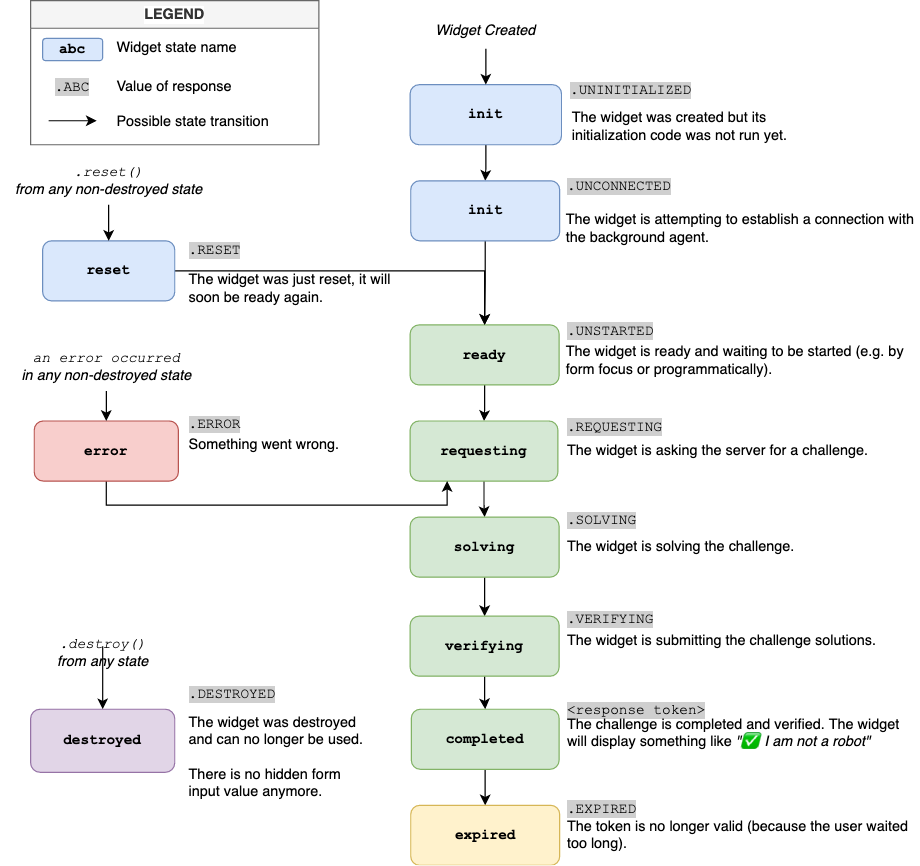
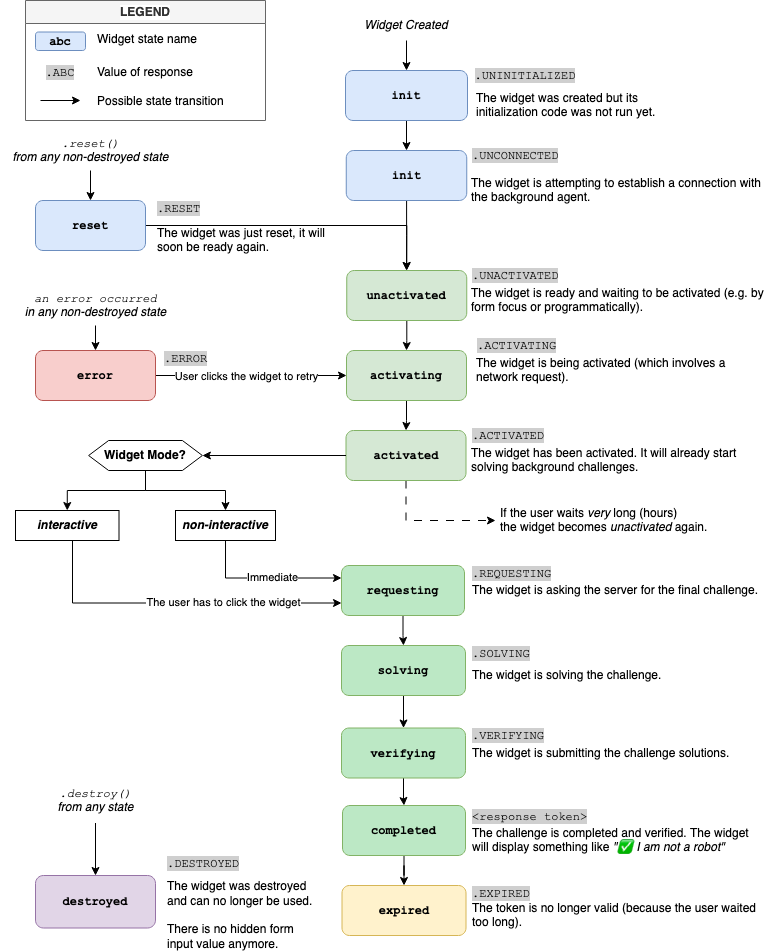
Update docs

Changed region(s): [[0.0311, 0.0, 0.9961, 1.0], [0.0311, 0.7171, 0.4047, 0.9977], [0.3424, 0.0, 0.3735, 0.1247]]

diff --git a/docs/sdk/reference/friendly-captcha-sdk.md b/docs/sdk/reference/friendly-captcha-sdk.md
@@ -30,6 +30,7 @@ A library for integrating Friendly Captcha into your website. This SDK allows yo
 |  [FRCWidgetStateChangeEventData](./friendly-captcha-sdk.frcwidgetstatechangeeventdata.md) | Payload of the <code>&quot;frc:widget.statechange&quot;</code> event. |
 |  [FriendlyCaptchaSDKOptions](./friendly-captcha-sdk.friendlycaptchasdkoptions.md) | Options when creating a new SDK instance. |
 |  [WidgetErrorData](./friendly-captcha-sdk.widgeterrordata.md) |  |
+|  [WidgetResetOptions](./friendly-captcha-sdk.widgetresetoptions.md) | The options object you can pass to the <code>widget.reset()</code> method. |
 
 ## Variables
 
@@ -53,6 +54,7 @@ A library for integrating Friendly Captcha into your website. This SDK allows yo
 |  [FRCWidgetWidgetExpireEvent](./friendly-captcha-sdk.frcwidgetwidgetexpireevent.md) | Event that gets dispatched when the widget expires. This happens when the user takes too long to submit the captcha after it is solved. |
 |  [FRCWidgetWidgetResetEvent](./friendly-captcha-sdk.frcwidgetwidgetresetevent.md) | Event that gets dispatched when something goes wrong in the widget. |
 |  [SentinelResponse](./friendly-captcha-sdk.sentinelresponse.md) | Response values used in the hidden input field when no valid solution is present, these tell you something about the state of the widget. |
-|  [StartMode](./friendly-captcha-sdk.startmode.md) | <p>The start mode of the widget.</p><p>\* <code>&quot;auto&quot;</code>: the widget gets activated as soon as it is created. \* <code>&quot;focus&quot;</code>: the widget gets activated as soon as the form above it is focused. \* <code>&quot;none&quot;</code>: The widget does not start automatically at all, the user needs to press the widget.</p> |
+|  [StartMode](./friendly-captcha-sdk.startmode.md) | <p>The start mode of the widget.</p><p>\* <code>&quot;auto&quot;</code>: the widget gets activated as soon as it is created. \* <code>&quot;focus&quot;</code>: the widget gets activated as soon as the form above it is focused. \* <code>&quot;none&quot;</code>: The widget does not get activated automatically at all, the user needs to press the widget (or <code>.start()</code> gets called using the Javascript API).</p> |
 |  [WidgetErrorCode](./friendly-captcha-sdk.widgeterrorcode.md) | <p>Error codes that can be returned by the widget.</p><p>\* <code>&quot;network_error&quot;</code>: The user's browser could not connect to the Friendly Captcha API. \* <code>&quot;sitekey_invalid&quot;</code>: The sitekey is invalid. \* <code>&quot;sitekey_missing&quot;</code>: The sitekey is missing. \* <code>&quot;other&quot;</code>: Some other error occurred.</p><p>In all cases it's the best practice to enable the "submit" button when the widget errors, so that the user can still perform the action despite not having solved the captcha.</p> |
+|  [WidgetResetTrigger](./friendly-captcha-sdk.widgetresettrigger.md) | What caused the widget to reset. \* <code>root</code>: Code on the root page (= your website code or plugin) caused the reset. \* <code>widget</code>: The reset came from the widget. The user likely clicked the reset button within the widget. \* <code>agent</code>: The reset came from the agent - this currently does not happen but may in the future. |
 |  [WidgetState](./friendly-captcha-sdk.widgetstate.md) | The state the widget is in. See the \[widget lifecycle\](../lifecycle) docs for more information. |

diff --git a/docs/sdk/reference/friendly-captcha-sdk.createwidgetoptions.md b/docs/sdk/reference/friendly-captcha-sdk.createwidgetoptions.md
@@ -22,10 +22,10 @@ export interface CreateWidgetOptions
 
 |  Property | Modifiers | Type | Description |
 |  --- | --- | --- | --- |
+|  [apiEndpoint?](./friendly-captcha-sdk.createwidgetoptions.apiendpoint.md) |  | string | _(Optional)_ A custom endpoint from which the agent and widgets are loaded. |
 |  [element](./friendly-captcha-sdk.createwidgetoptions.element.md) |  | HTMLElement | The HTML element to mount to, usually this is an element with class <code>.frc-captcha</code>. |
-|  [endpoint?](./friendly-captcha-sdk.createwidgetoptions.endpoint.md) |  | string | _(Optional)_ A custom endpoint from which the agent and widgets are loaded. |
 |  [formFieldName?](./friendly-captcha-sdk.createwidgetoptions.formfieldname.md) |  | string &#124; null | _(Optional)_ The name of the field in the form that is set, defaults to <code>frc-captcha-response</code>. |
-|  [language?](./friendly-captcha-sdk.createwidgetoptions.language.md) |  | string | _(Optional)_ Language code such as "en" for English or "de" for German. Defaults to automatic language detection. |
+|  [language?](./friendly-captcha-sdk.createwidgetoptions.language.md) |  | string | <p>_(Optional)_ Language code such as "en" for English or "de" for German. Defaults to automatic language detection.</p><p>Usually you should not set this yourself and instead let the widget detect the language automatically.</p> |
 |  [sitekey?](./friendly-captcha-sdk.createwidgetoptions.sitekey.md) |  | string | _(Optional)_ Sitekey of your application, starts with <code>FC</code>. |
 |  [startMode?](./friendly-captcha-sdk.createwidgetoptions.startmode.md) |  | [StartMode](./friendly-captcha-sdk.startmode.md) | <p>_(Optional)_ The start mode determines the behavior around automatic activation of the widget. Activation here means the challenge gets requested and gets solved. Defaults to <code>&quot;focus&quot;</code>.</p><p>\*<code>&quot;auto&quot;</code>: the widget gets activated as soon as it is created. \* <code>&quot;focus&quot;</code>: the widget gets activated as soon as the form above it is focused. \* <code>&quot;none&quot;</code>: The widget does not start automatically at all, the user needs to press the widget.</p> |
 |  [theme?](./friendly-captcha-sdk.createwidgetoptions.theme.md) |  | "light" &#124; "dark" &#124; "auto" | <p>_(Optional)_ The theme for the widget.</p><p>\* <code>&quot;light&quot;</code> (default): a light theme with a white background. \* <code>&quot;dark&quot;</code>: a dark theme with a dark background. \* <code>&quot;auto&quot;</code>: the theme is automatically chosen based on the user's system preferences.</p> |

diff --git a/docs/sdk/reference/friendly-captcha-sdk.frcwidgetreseteventdata.md b/docs/sdk/reference/friendly-captcha-sdk.frcwidgetreseteventdata.md
@@ -26,4 +26,4 @@ export interface FRCWidgetResetEventData
 |  [name](./friendly-captcha-sdk.frcwidgetreseteventdata.name.md) |  | typeof [FRCWidgetResetEventName](./friendly-captcha-sdk.frcwidgetreseteventname.md) | <code>&quot;frc:widget.reset&quot;</code> |
 |  [response](./friendly-captcha-sdk.frcwidgetreseteventdata.response.md) |  | string | The current <code>frc-captcha-response</code> value. |
 |  [state](./friendly-captcha-sdk.frcwidgetreseteventdata.state.md) |  | "reset" |  |
-|  [trigger](./friendly-captcha-sdk.frcwidgetreseteventdata.trigger.md) |  | WidgetResetTrigger | What caused the reset. Possible values: \* <code>&quot;widget&quot;</code>: reset initiated by the widget (<code>&quot;widget&quot;</code>), which generally means the user clicked the reset button within the widget. \* <code>&quot;root&quot;</code>: triggered by your own code on the current page (by calling <code>widget.reset()</code>). \* <code>&quot;agent&quot;</code>: triggered by the background agent (currently never happens). |
+|  [trigger](./friendly-captcha-sdk.frcwidgetreseteventdata.trigger.md) |  | [WidgetResetTrigger](./friendly-captcha-sdk.widgetresettrigger.md) | What caused the reset. Possible values: \* <code>&quot;widget&quot;</code>: reset initiated by the widget (<code>&quot;widget&quot;</code>), which generally means the user clicked the reset button within the widget. \* <code>&quot;root&quot;</code>: triggered by your own code on the current page (by calling <code>widget.reset()</code>). \* <code>&quot;agent&quot;</code>: triggered by the background agent (currently never happens). |

diff --git a/docs/api/endpoints/siteverify.md b/docs/api/endpoints/siteverify.md
@@ -2,13 +2,13 @@
 sidebar_position: 0
 ---
 
-# `/api/v2/siteverify`
+# `/api/v2/captcha/siteverify`
 
 The siteverify endpoint is used to verify captcha responses. A captcha response is the value that is embedded in your form by the captcha widget when the challenge has been completed.
 
 ## Request
 
-Make a **POST** request to `https://global.frcapi.com/api/v2/siteverify` with the following parameters:
+Make a **POST** request to `https://global.frcapi.com/api/v2/captcha/siteverify` with the following parameters:
 
 | POST Parameter | Type | Description |
 |----------------|------|-----------------------------------------------------|
@@ -33,8 +33,8 @@ The response body is a JSON object which has a `success` field that tells you wh
   "success": true,
   "data": { 
     "challenge": {
-        "timestamp": 1685098040, // Timestamp when the captcha challenge was completed.
-        "origin": "example.com" // Origin where the challenge happened. This can be empty if unknown.
+        "timestamp": "2023-08-04T13:01:25Z", // Timestamp when the captcha challenge was completed.
+        "origin": "https://example.com" // Origin where the challenge happened. This can be empty if unknown.
     }
   }
 }

diff --git a/docs/sdk/reference/friendly-captcha-sdk.widgetresettrigger.md b/docs/sdk/reference/friendly-captcha-sdk.widgetresettrigger.md
@@ -1,0 +1,19 @@
+---
+id: friendly-captcha-sdk.widgetresettrigger
+title: WidgetResetTrigger
+hide_title: true
+sidebar_class_name: sidebar-hidden
+---
+<!-- Do not edit this file. It is automatically generated by API Documenter. -->
+
+[friendly-captcha-sdk](./friendly-captcha-sdk.md) &gt; [WidgetResetTrigger](./friendly-captcha-sdk.widgetresettrigger.md)
+
+## WidgetResetTrigger type
+
+What caused the widget to reset. \* `root`<!-- -->: Code on the root page (= your website code or plugin) caused the reset. \* `widget`<!-- -->: The reset came from the widget. The user likely clicked the reset button within the widget. \* `agent`<!-- -->: The reset came from the agent - this currently does not happen but may in the future.
+
+**Signature:**
+
+```typescript
+export declare type WidgetResetTrigger = "widget" | "root" | "agent";
+```

diff --git a/docs/sdk/advanced/localization.md b/docs/sdk/advanced/localization.md
@@ -45,10 +45,11 @@ If you are creating widgets programmatically you can use the `language` field in
 | :flag-nl: **Dutch** \| *Nederlands* | `"nl"`, `"nl-NL"`  | 100% |
 | :flag-us: **English** | `"en"`, `"en-US"`  | 100% |
 | :flag-gb: **English (UK)** |`"en-GB"`  | 100% |
-| :flag-fr: **French** \| *Français* | `"fr"`, `"fr-FR"`  | 100% |
-| :flag-de: **German** \| *Deutsch* | `"de"`, `"de-DE"`  | 100% |
+| :flag-fr: **French** \| *Français* | `"fr"`, `"fr-FR"`  | 92% |
+| :flag-de: **German** \| *Deutsch* | `"de"`, `"de-DE"`  | 92% |
+| :flag-it: **Italian** \| *Italiano* | `"it"`, `"it-IT"`  | 79% |
 
-> This table was last updated 2023-07-26.
+> This table was last updated 2023-08-04.
 
 ::::tip Language not supported?
 

diff --git a/docs/sdk/reference/friendly-captcha-sdk.startmode.md b/docs/sdk/reference/friendly-captcha-sdk.startmode.md
@@ -12,7 +12,7 @@ sidebar_class_name: sidebar-hidden
 
 The start mode of the widget.
 
-\* `"auto"`<!-- -->: the widget gets activated as soon as it is created. \* `"focus"`<!-- -->: the widget gets activated as soon as the form above it is focused. \* `"none"`<!-- -->: The widget does not start automatically at all, the user needs to press the widget.
+\* `"auto"`<!-- -->: the widget gets activated as soon as it is created. \* `"focus"`<!-- -->: the widget gets activated as soon as the form above it is focused. \* `"none"`<!-- -->: The widget does not get activated automatically at all, the user needs to press the widget (or `.start()` gets called using the Javascript API).
 
 **Signature:**
 

diff --git a/docs/sdk/reference/friendly-captcha-sdk.createwidgetoptions.apiendpoint.md b/docs/sdk/reference/friendly-captcha-sdk.createwidgetoptions.apiendpoint.md
@@ -1,0 +1,19 @@
+---
+id: friendly-captcha-sdk.createwidgetoptions.apiendpoint
+title: CreateWidgetOptions.apiEndpoint
+hide_title: true
+sidebar_class_name: sidebar-hidden
+---
+<!-- Do not edit this file. It is automatically generated by API Documenter. -->
+
+[friendly-captcha-sdk](./friendly-captcha-sdk.md) &gt; [CreateWidgetOptions](./friendly-captcha-sdk.createwidgetoptions.md) &gt; [apiEndpoint](./friendly-captcha-sdk.createwidgetoptions.apiendpoint.md)
+
+## CreateWidgetOptions.apiEndpoint property
+
+A custom endpoint from which the agent and widgets are loaded.
+
+**Signature:**
+
+```typescript
+apiEndpoint?: string;
+```

diff --git a/README.md b/README.md
@@ -18,6 +18,9 @@ Below are screenshots to help you recognize the one you are using.
 ### V2 Widget Screenshot 
 ![Widget v2 screenshot](./static/img/screenshot/v2-widget-ready.png)
 
+## Contribute to our localizations
+
+Are you a (near-)native speaker of a language that is not yet supported? You can help [translate the widget here](https://poeditor.com/join/project/lrdZQ5Uk6D). Thank you for your contribution!
 
 ## Local Development
 > Note: You don't have to run it locally to contribute. You can also edit the markdown files in the `docs` folder using your favorite text editor.

diff --git a/docs/sdk/reference/friendly-captcha-sdk.widgetresetoptions.md b/docs/sdk/reference/friendly-captcha-sdk.widgetresetoptions.md
@@ -1,0 +1,19 @@
+---
+id: friendly-captcha-sdk.widgetresetoptions
+title: WidgetResetOptions
+hide_title: true
+sidebar_class_name: sidebar-hidden
+---
+<!-- Do not edit this file. It is automatically generated by API Documenter. -->
+
+[friendly-captcha-sdk](./friendly-captcha-sdk.md) &gt; [WidgetResetOptions](./friendly-captcha-sdk.widgetresetoptions.md)
+
+## WidgetResetOptions interface
+
+The options object you can pass to the `widget.reset()` method.
+
+**Signature:**
+
+```typescript
+export interface WidgetResetOptions 
+```

diff --git a/docs/sdk/reference/friendly-captcha-sdk.widgetstate.md b/docs/sdk/reference/friendly-captcha-sdk.widgetstate.md
@@ -15,5 +15,5 @@ The state the widget is in. See the \[widget lifecycle\](../lifecycle) docs for 
 **Signature:**
 
 ```typescript
-export declare type WidgetState = "init" | "reset" | "ready" | "requesting" | "solving" | "verifying" | "completed" | "expired" | "error" | "destroyed";
+export declare type WidgetState = "init" | "reset" | "unactivated" | "activating" | "activated" | "requesting" | "solving" | "verifying" | "completed" | "expired" | "error" | "destroyed";
 ```

diff --git a/docs/guides/upgrading-to-v2/backend-integration.md b/docs/guides/upgrading-to-v2/backend-integration.md
@@ -19,10 +19,10 @@ https://api.friendlycaptcha.com/api/v1/siteverify
 to
 
 ```shell
-https://global.frcapi.com/api/v2/siteverify
+https://global.frcapi.com/api/v2/captcha/siteverify
 
 # or in case you prefer to talk to our EU endpoint from your backend
-https://eu.frcapi.com/api/v2/siteverify
+https://eu.frcapi.com/api/v2/captcha/siteverify
 ```
 
 ## 3. Replace the secret field.
